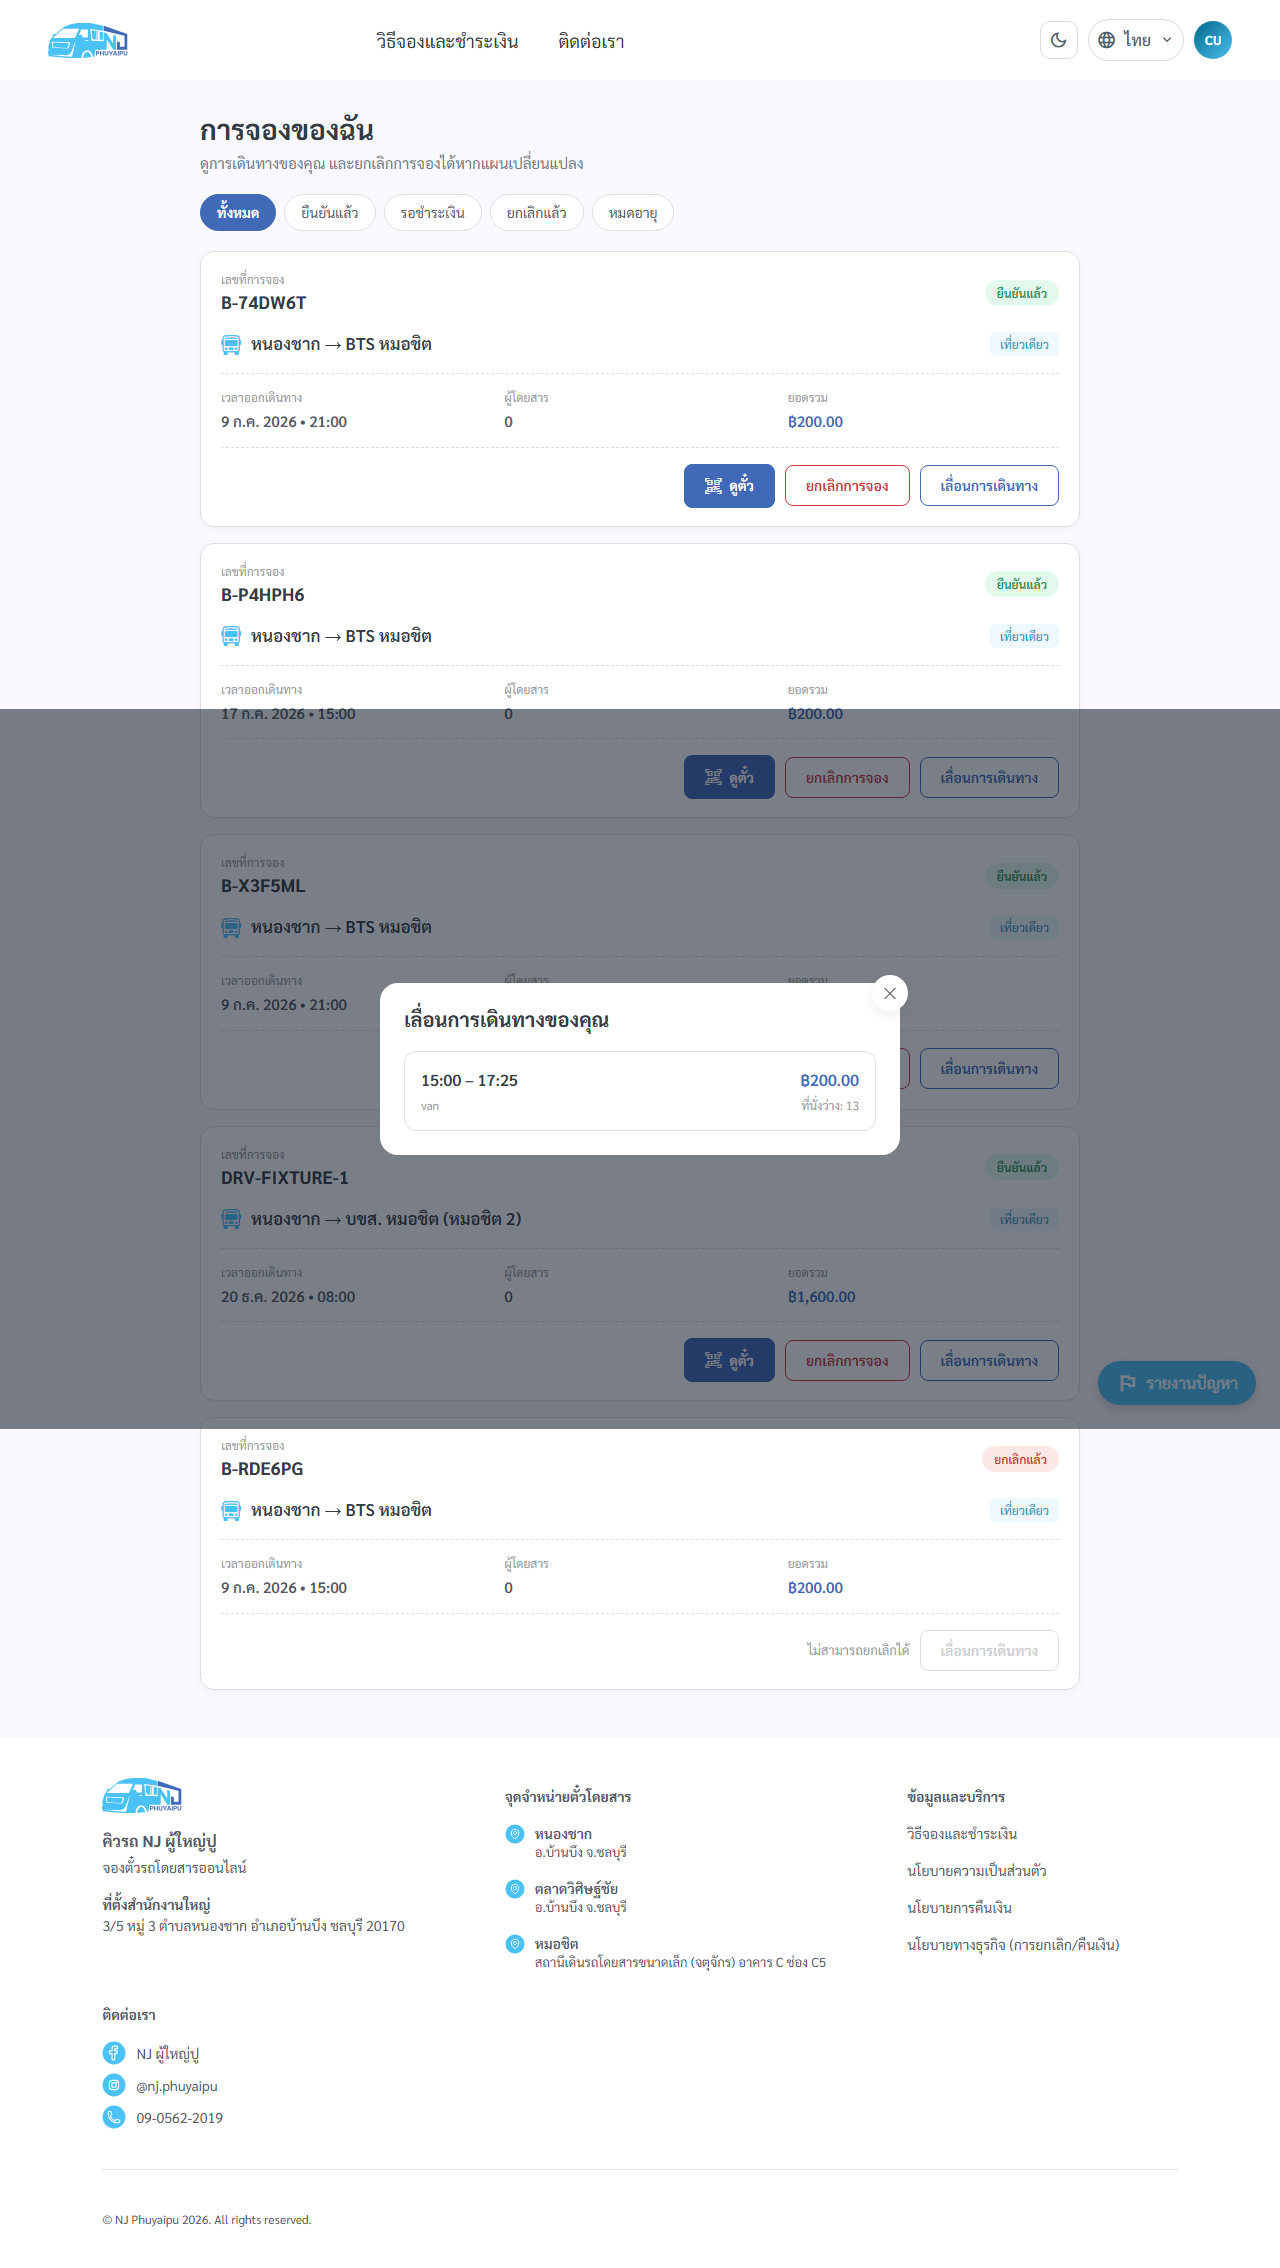
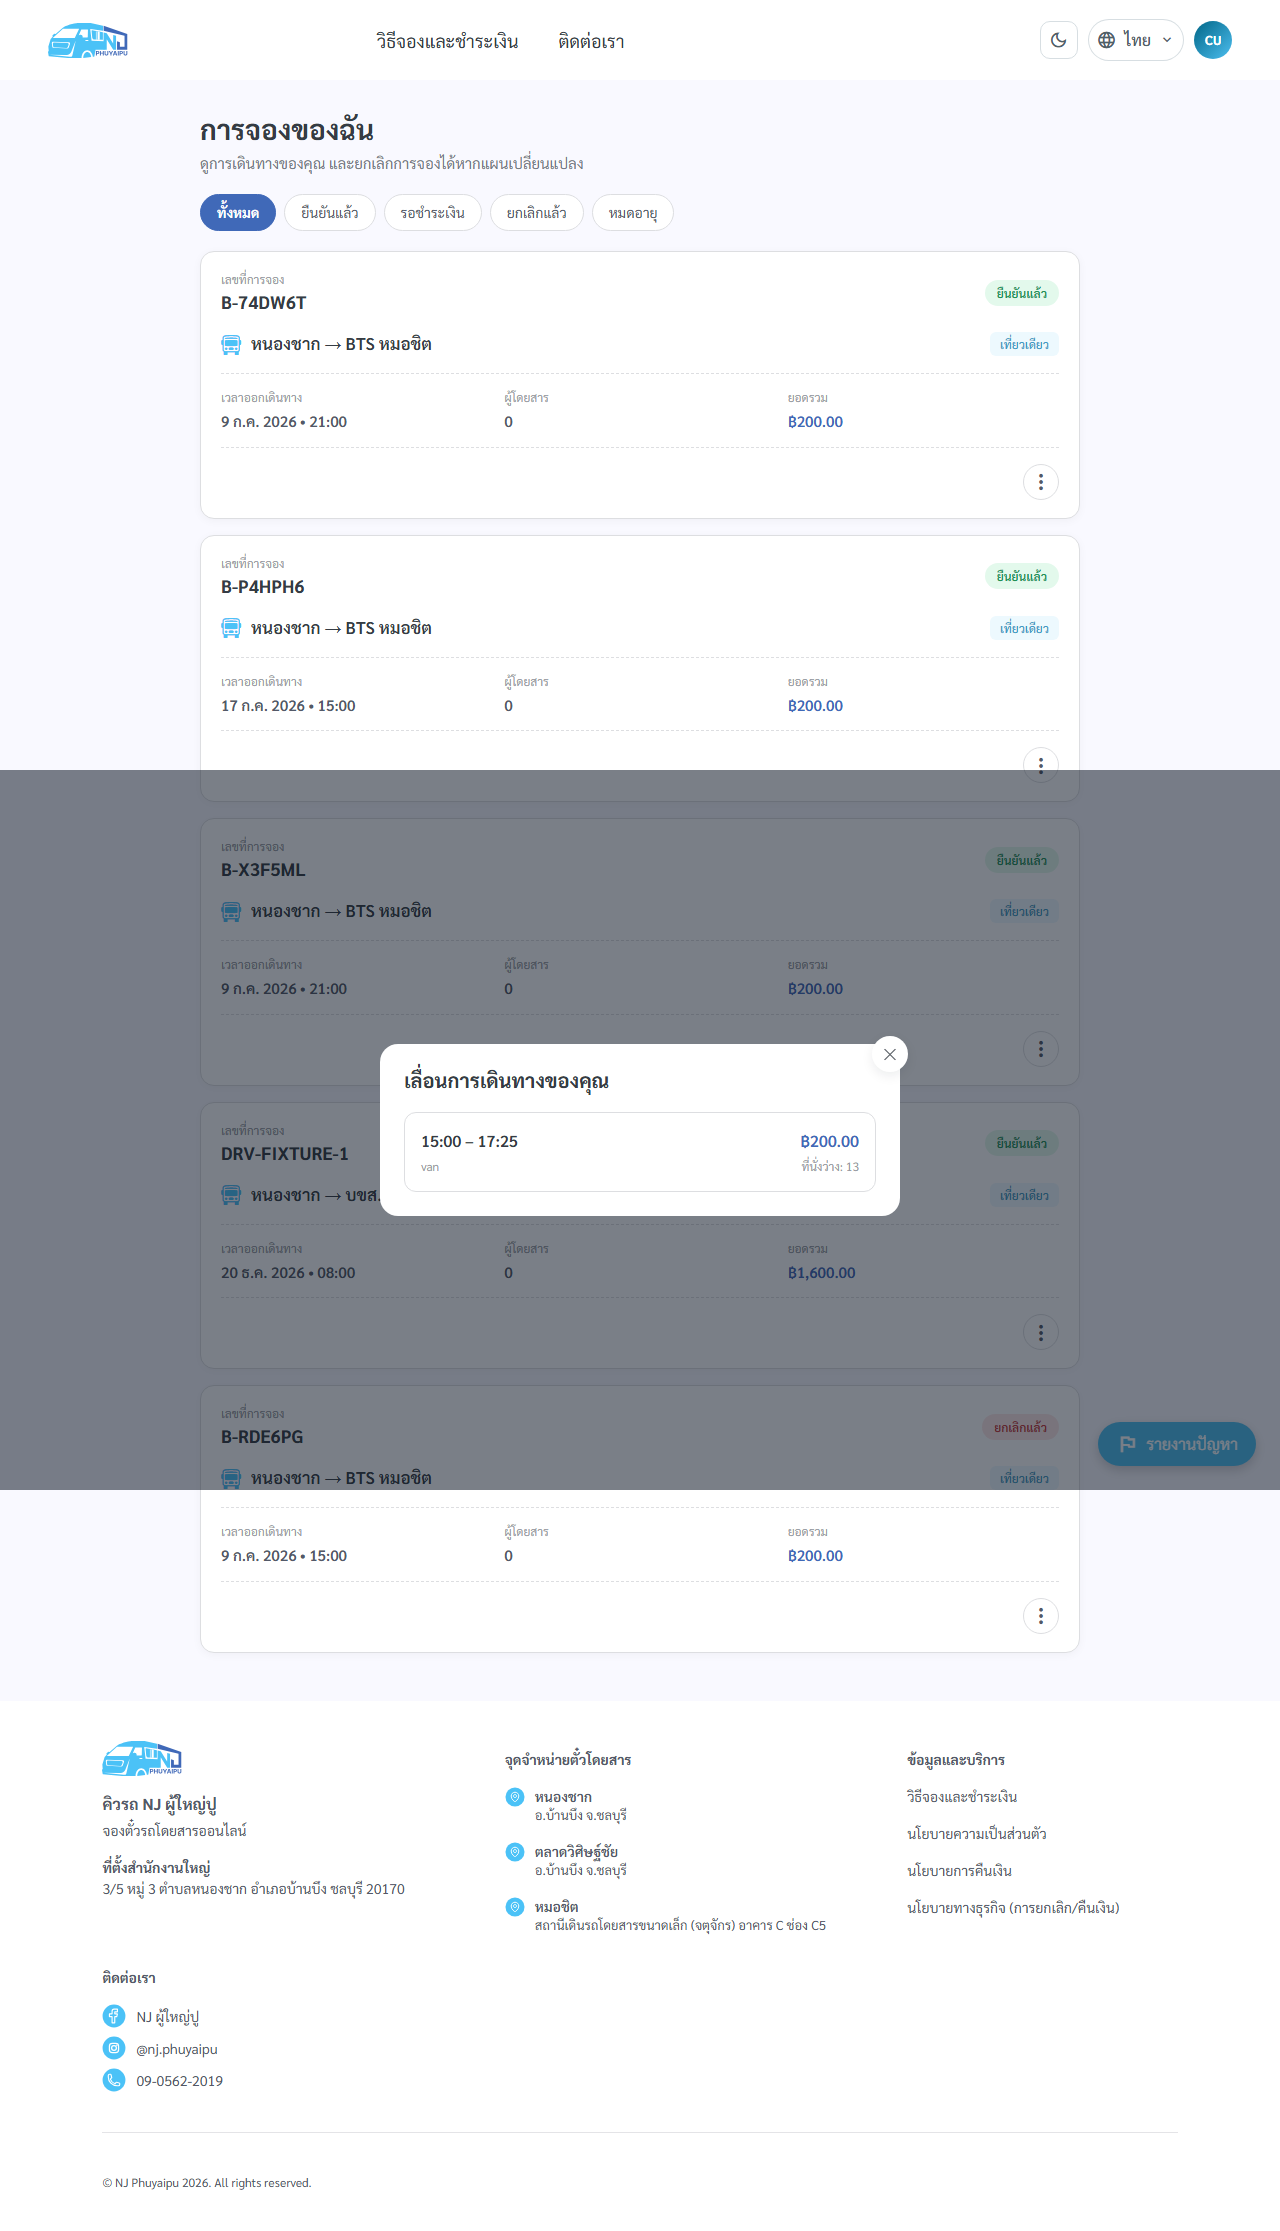
test(e2e): fix menu-selector test-authoring bugs in reschedule e2e (OBRS-83)

diff --git a/e2e/tests/my-bookings-reschedule.spec.ts b/e2e/tests/my-bookings-reschedule.spec.ts
@@ -61,8 +61,16 @@ function cardByBookingNumber(page: Page, bookingNumber: string) {
  * under `card`). Each item is `.action-menu-item` with a `.action-menu-item__label`
  * and, when disabled, a `.action-menu-item__reason` subtext (replaces the old
  * per-button `.tooltip-box` hover tooltip).
+ *
+ * PrimeNG's popup `p-menu` binds a `ConnectedOverlayScrollHandler` (see
+ * node_modules/primeng/fesm2022/primeng-menu.mjs) that closes the menu on
+ * ANY ancestor/window scroll — so the card must already be fully in view
+ * BEFORE clicking the trigger (a scroll-into-view triggered by the click
+ * itself, or any scroll afterward — including a `fullPage` screenshot's
+ * internal scroll — will silently dismiss it).
  */
 async function openActionsMenu(page: Page, card: Locator): Promise<Locator> {
+  await card.locator('.actions-menu-btn').scrollIntoViewIfNeeded();
   await card.locator('.actions-menu-btn').click();
   const menu = page.locator('.p-menu');
   await menu.waitFor({ state: 'visible', timeout: 10_000 });
@@ -70,9 +78,17 @@ async function openActionsMenu(page: Page, card: Locator): Promise<Locator> {
 }
 
 /** The `<li class="p-menuitem">` (carries `aria-disabled`) for a given item's
- * label text — use this for both disabled-state and reason-text assertions. */
+ * label text — use this for both disabled-state and reason-text assertions.
+ * Filters on the `.action-menu-item__label` descendant specifically (not the
+ * `<li>`'s whole text via a plain `hasText` filter): a disabled item appends
+ * its `.action-menu-item__reason` subtext inside the SAME `<li>`, so an
+ * anchored pattern like `/^Reschedule$/` would never match the combined
+ * "Reschedule Only confirmed bookings can be rescheduled" text — it must
+ * match only the label span. */
 function menuItem(menu: Locator, labelPattern: RegExp): Locator {
-  return menu.locator('li.p-menuitem').filter({ hasText: labelPattern });
+  return menu.locator('li.p-menuitem').filter({
+    has: menu.page().locator('.action-menu-item__label', { hasText: labelPattern }),
+  });
 }
 
 async function clickMenuItem(menu: Locator, labelPattern: RegExp): Promise<void> {
@@ -80,10 +96,13 @@ async function clickMenuItem(menu: Locator, labelPattern: RegExp): Promise<void>
 }
 
 /** Opens the card's action menu and clicks Reschedule — the replacement for
- * the old direct `card.locator('.btn-reschedule').click()`. */
+ * the old direct `card.locator('.btn-reschedule').click()`. Locale-agnostic
+ * (matches either the English or Thai label): AC8 switches the page to Thai
+ * before its own call to this helper, so a pattern hardcoded to "Reschedule"
+ * would never match there. */
 async function openRescheduleFromCard(page: Page, card: Locator): Promise<void> {
   const menu = await openActionsMenu(page, card);
-  await clickMenuItem(menu, /^Reschedule$/);
+  await clickMenuItem(menu, /^(Reschedule|เลื่อนการเดินทาง)$/);
 }
 
 /** Opens the PrimeNG p-calendar panel. Prefers the icon trigger button (more
@@ -115,9 +134,12 @@ test.describe('My Bookings — Reschedule (OBRS-83)', () => {
     await expect(rescheduleItem).toHaveAttribute('aria-disabled', 'false');
     await expect(rescheduleItem.locator('.action-menu-item__reason')).toHaveCount(0);
 
+    // fullPage:false deliberately — a fullPage capture scrolls the page,
+    // which trips PrimeNG's ConnectedOverlayScrollHandler and silently
+    // dismisses the still-needed-open popup menu (see openActionsMenu doc).
     await page.screenshot({
       path: 'e2e-evidence/after-eligible-card.png',
-      fullPage: true,
+      fullPage: false,
     });
 
     // Regression: View e-ticket still works on this same card, via the menu.
@@ -531,6 +553,113 @@ test.describe('My Bookings — Reschedule (OBRS-83)', () => {
     await page.screenshot({ path: 'e2e-evidence/thai-locale-max-count.png', fullPage: true });
 
     await dialog.locator('.reschedule-modal__close').click();
+  });
+
+  test('Menu (2fd9153): keyboard access (Enter/Space open, Escape closes), Cancel item is danger-styled, disabled Reschedule item shown for a cancelled booking', async ({
+    page,
+  }) => {
+    await loginAsCustomer(page);
+    await gotoMyBookings(page);
+
+    const card = cardByBookingNumber(page, 'B-P4HPH6');
+    const trigger = card.locator('.actions-menu-btn');
+    await expect(trigger).toHaveAttribute('aria-label', 'Actions');
+
+    // Keyboard: focus + Enter opens.
+    await trigger.focus();
+    await trigger.press('Enter');
+    let menu = page.locator('.p-menu');
+    await expect(menu).toBeVisible({ timeout: 5_000 });
+    // fullPage:false — see openActionsMenu doc: a fullPage capture's scroll
+    // trips PrimeNG's scroll-dismiss handler and closes the menu we still
+    // need open for the Escape check right after.
+    await page.screenshot({ path: 'e2e-evidence/menu-open-keyboard.png', fullPage: false });
+
+    // Escape closes, and focus returns to the trigger (onActionMenuHide()).
+    await page.keyboard.press('Escape');
+    await expect(menu).toHaveCount(0);
+    await expect(trigger).toBeFocused();
+
+    // Keyboard: Space also opens (re-open, then close via Escape again).
+    await trigger.press(' ');
+    menu = page.locator('.p-menu');
+    await expect(menu).toBeVisible({ timeout: 5_000 });
+
+    // Cancel booking item is danger-styled on a cancellable, confirmed booking.
+    const cancelItem = menuItem(menu, /Cancel booking/);
+    await expect(cancelItem).toBeVisible();
+    await expect(cancelItem.locator('.action-menu-item--danger')).toBeVisible();
+    await page.keyboard.press('Escape');
+    await expect(menu).toHaveCount(0);
+
+    // Disabled Reschedule item is still present (not omitted) on the
+    // already-cancelled B-RDE6PG, with the NOT_CONFIRMED reason visible
+    // (not hover-only) — checked directly since RDE6PG was already consumed
+    // by an earlier session's cancel-flow run.
+    const cancelledCard = cardByBookingNumber(page, 'B-RDE6PG');
+    await expect(cancelledCard.locator('.status-badge')).toHaveText(/Cancelled/i);
+    const cancelledMenu = await openActionsMenu(page, cancelledCard);
+    await expect(cancelledMenu.locator('.action-menu-item').filter({ hasText: 'Cancel booking' })).toHaveCount(0);
+    const rescheduleItem = menuItem(cancelledMenu, /^Reschedule$/);
+    await expect(rescheduleItem).toBeVisible();
+    await expect(rescheduleItem).toHaveAttribute('aria-disabled', 'true');
+    await expect(rescheduleItem.locator('.action-menu-item__reason')).toContainText(
+      /Only confirmed bookings can be rescheduled/i
+    );
+    await page.screenshot({ path: 'e2e-evidence/menu-disabled-reschedule-reason.png', fullPage: true });
+    await page.keyboard.press('Escape');
+  });
+
+  test('Menu (2fd9153): Cancel booking via the menu reaches the confirm dialog; backing out leaves the booking unchanged', async ({
+    page,
+  }) => {
+    await loginAsCustomer(page);
+    await gotoMyBookings(page);
+
+    // B-P4HPH6 is confirmed/cancellable — reach the SweetAlert2 confirm via
+    // the menu, then back OUT (click the swal2 cancel button, not confirm)
+    // so the booking is left untouched for other tests/sessions.
+    const card = cardByBookingNumber(page, 'B-P4HPH6');
+    const menu = await openActionsMenu(page, card);
+    await clickMenuItem(menu, /Cancel booking/);
+
+    const swalPopup = page.locator('.swal2-popup');
+    await expect(swalPopup).toBeVisible({ timeout: 10_000 });
+    await expect(swalPopup.locator('.swal2-confirm')).toBeVisible();
+    await page.screenshot({ path: 'e2e-evidence/menu-cancel-confirm-dialog.png', fullPage: true });
+
+    await page.locator('.swal2-cancel').click();
+    await expect(swalPopup).toHaveCount(0);
+
+    // Unchanged: still confirmed, still cancellable via the menu.
+    await expect(cardByBookingNumber(page, 'B-P4HPH6').locator('.status-badge')).toHaveText(/Confirmed/i);
+  });
+
+  test('Menu (2fd9153) Thai: trigger aria-label, item labels, and the disabled-Reschedule reason all localize with no raw keys', async ({
+    page,
+  }) => {
+    await loginAsCustomer(page, 'th');
+    await gotoMyBookings(page);
+
+    const eligibleCard = cardByBookingNumber(page, 'B-P4HPH6');
+    await expect(eligibleCard.locator('.actions-menu-btn')).toHaveAttribute('aria-label', 'การดำเนินการ');
+
+    const menu = await openActionsMenu(page, eligibleCard);
+    const labels = (await menu.locator('.action-menu-item__label').allTextContents()).map((l) => l.trim());
+    expect(labels).toEqual(['ดูตั๋ว', 'เลื่อนการเดินทาง', 'ยกเลิกการจอง']);
+    await expect(menu).not.toContainText('MY_BOOKINGS.');
+    await page.keyboard.press('Escape');
+    await expect(menu).toHaveCount(0);
+
+    const cancelledCard = cardByBookingNumber(page, 'B-RDE6PG');
+    const cancelledMenu = await openActionsMenu(page, cancelledCard);
+    const rescheduleItem = menuItem(cancelledMenu, /เลื่อนการเดินทาง/);
+    await expect(rescheduleItem).toHaveAttribute('aria-disabled', 'true');
+    await expect(rescheduleItem.locator('.action-menu-item__reason')).toContainText(
+      'เลื่อนได้เฉพาะการจองที่ยืนยันแล้วเท่านั้น'
+    );
+    await expect(cancelledMenu).not.toContainText('MY_BOOKINGS.');
+    await page.screenshot({ path: 'e2e-evidence/menu-thai-disabled-reason.png', fullPage: true });
   });
 });
 
